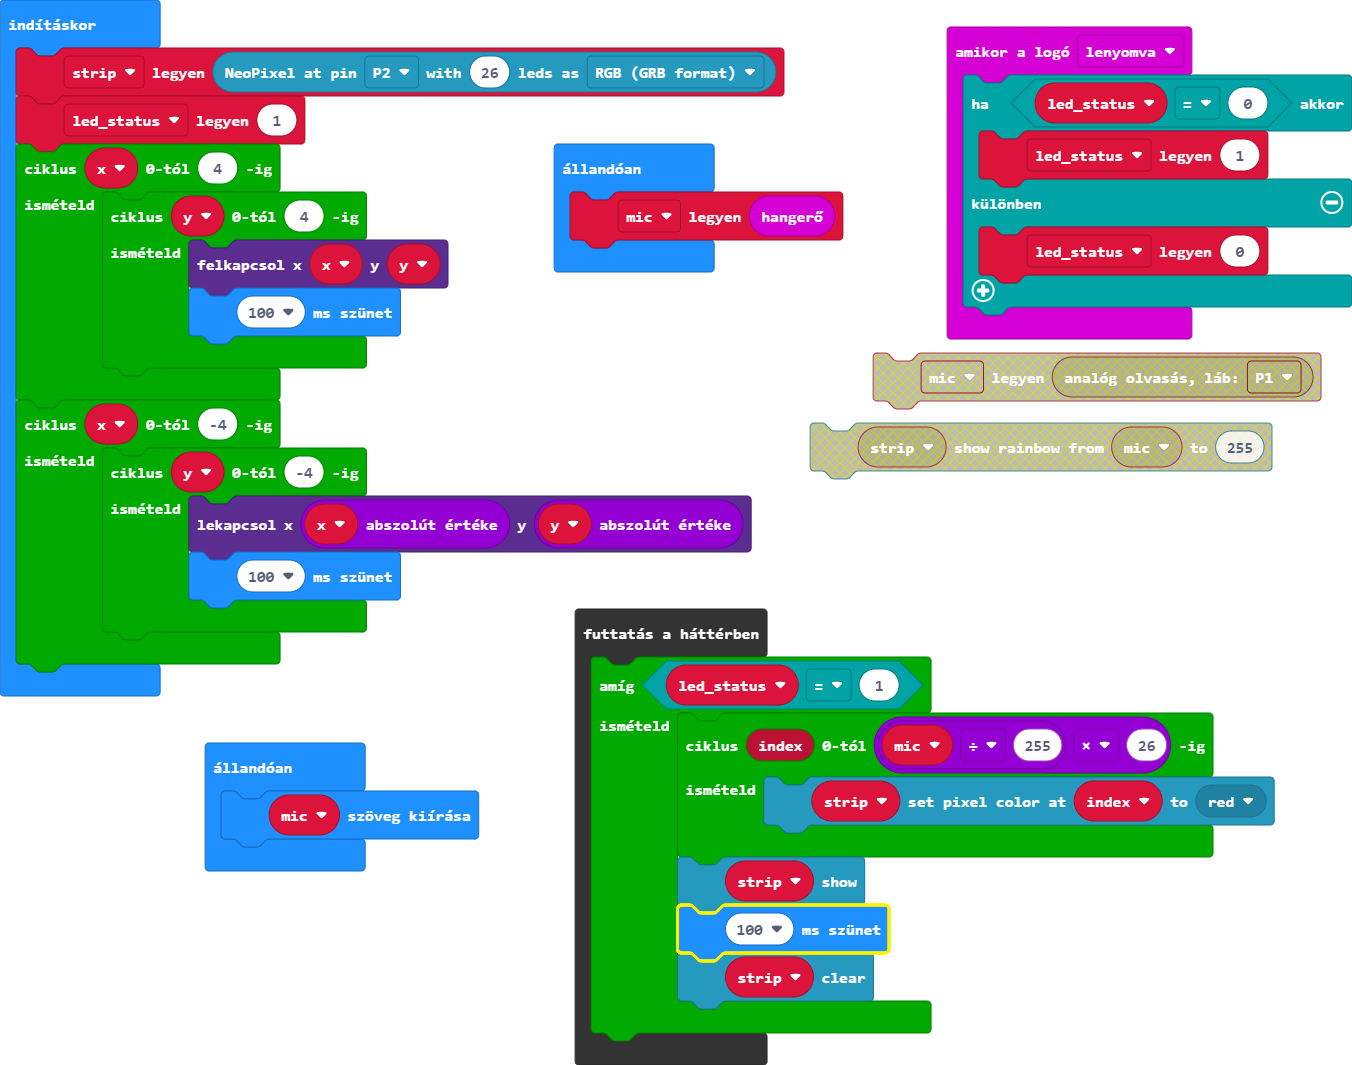
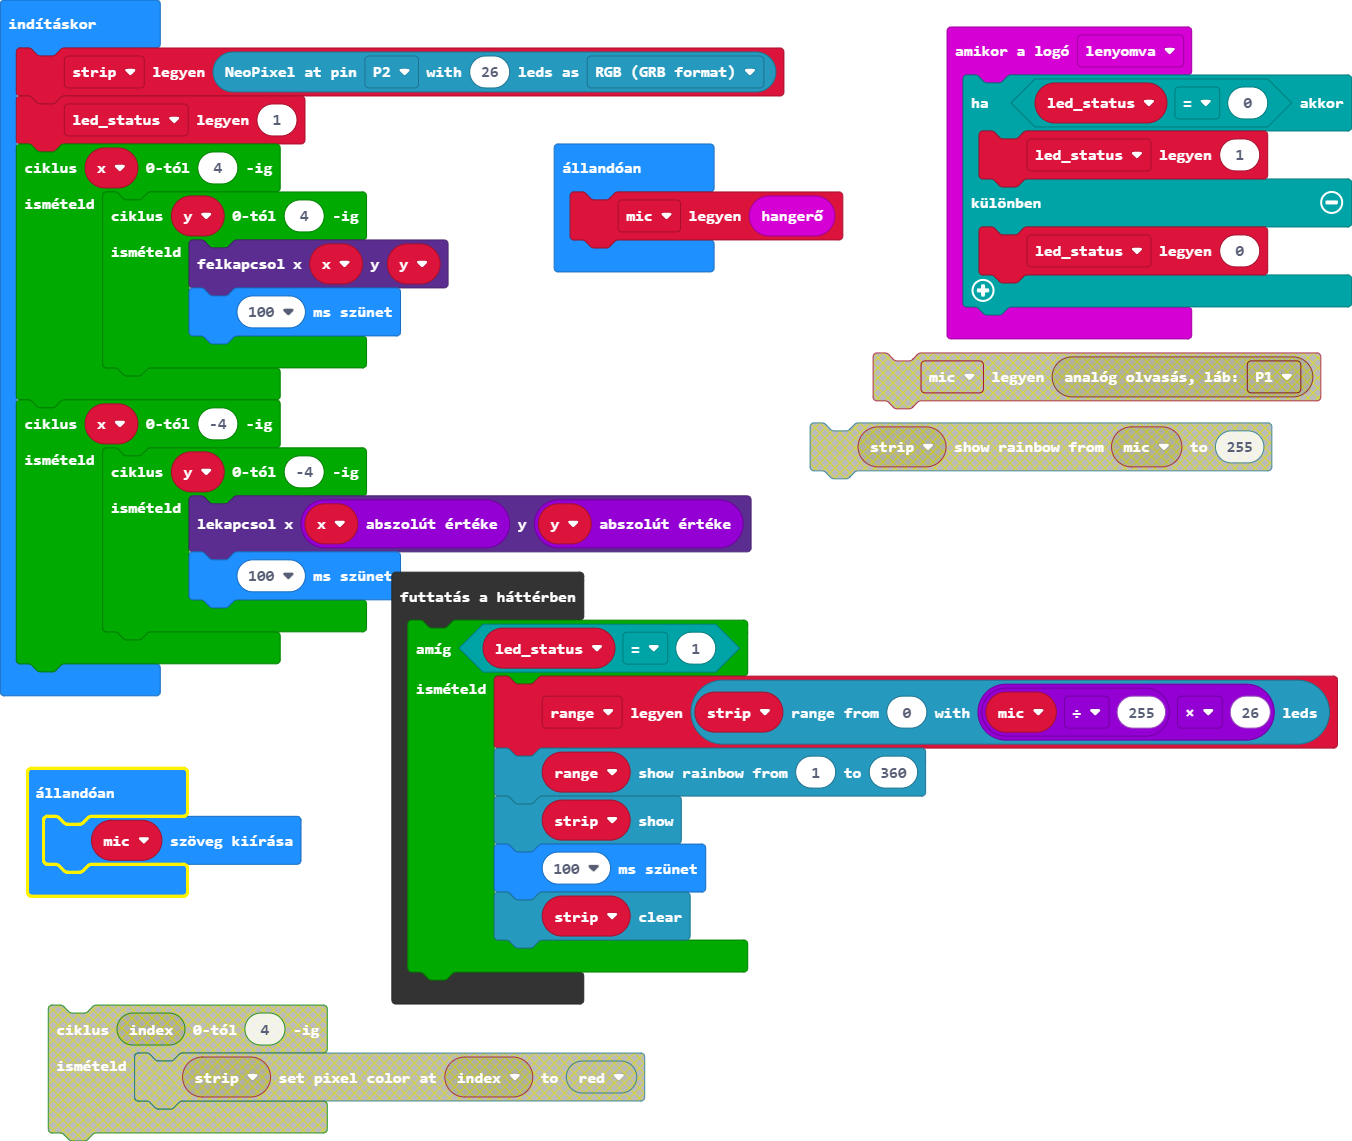
szivárvány színű stroboszkóp

diff --git a/main.ts b/main.ts
@@ -5,6 +5,7 @@ input.onLogoEvent(TouchButtonEvent.Pressed, function () {
         led_status = 0
     }
 })
+let range: neopixel.Strip = null
 let mic = 0
 let led_status = 0
 let strip = neopixel.create(DigitalPin.P2, 26, NeoPixelMode.RGB)
@@ -29,9 +30,8 @@ basic.forever(function () {
 })
 control.inBackground(function () {
     while (led_status == 1) {
-        for (let index = 0; index <= mic / 255 * 26; index++) {
-            strip.setPixelColor(index, neopixel.colors(NeoPixelColors.Red))
-        }
+        range = strip.range(0, mic / 255 * 26)
+        range.showRainbow(1, 360)
         strip.show()
         basic.pause(100)
         strip.clear()
